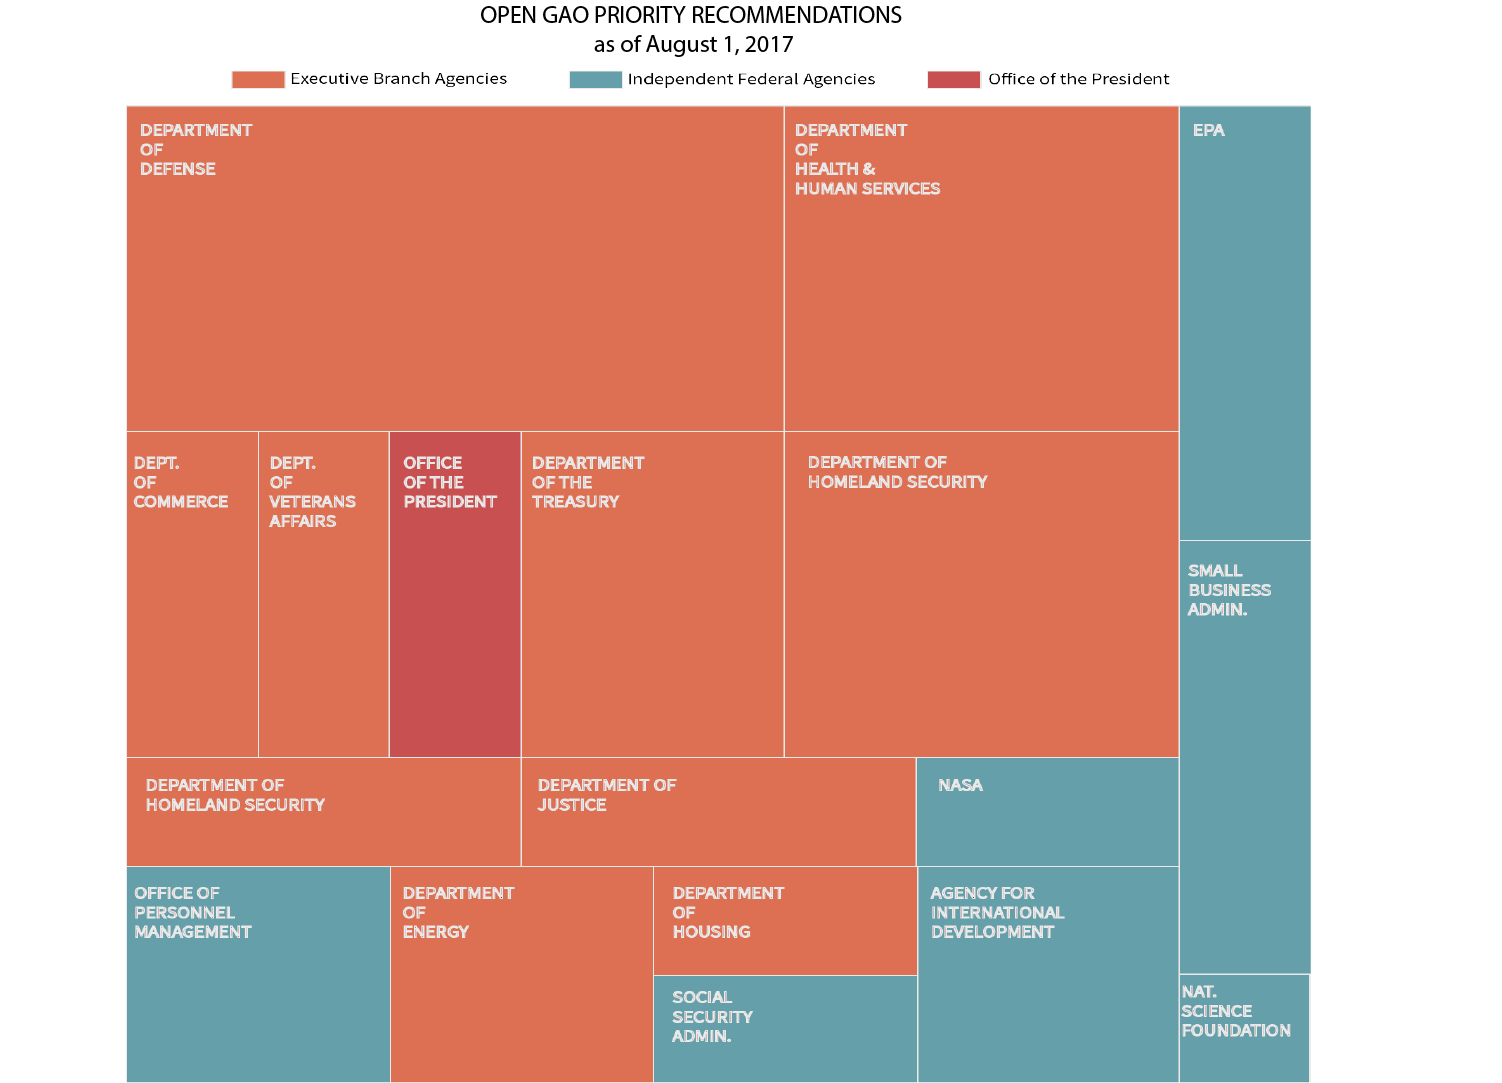
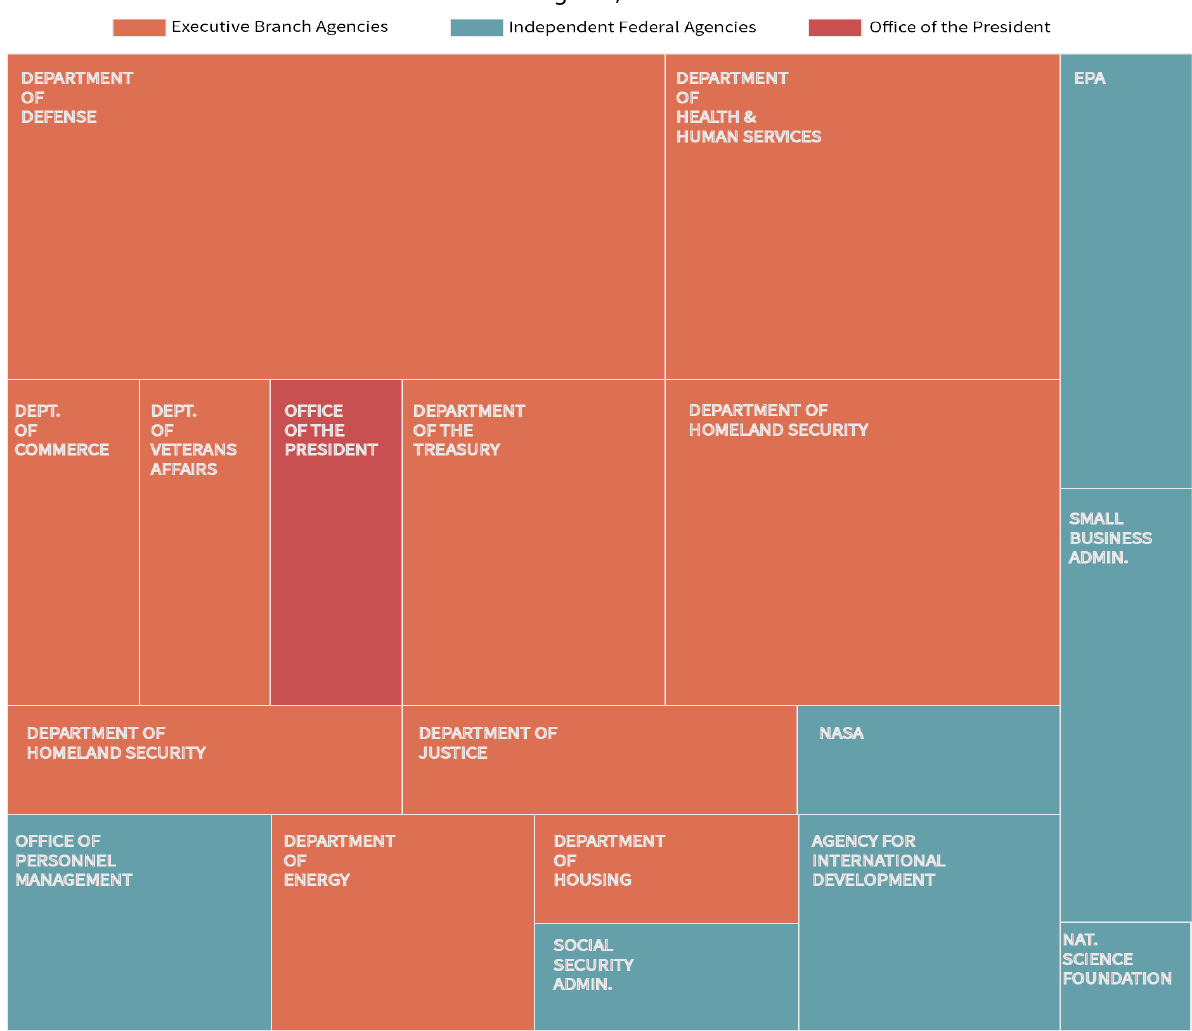
Revised treemap GAO

diff --git a/docs/a-very-cool-project/GitHubFirstGAO/index.md b/docs/a-very-cool-project/GitHubFirstGAO/index.md
@@ -23,7 +23,7 @@ As a non-partisan agency within the US Federal Government, GAO provides a crucia
 
 Members of Congress request for GAO to audit or review of any agency or department within the Federal Government. Currently all open and tagged priority recommendations are within Executive Branch Agencies or Independent Agencies. None are within the Judicial or Legislative Branch.
 
-![](newtreediagram.png)
+![](reallynewtreediagram@2x.png)
 
 
 More than 75% of incompleted GAO reports are within the Executive Branch, mostly falling within Departments that report directly to the President of the United States.
